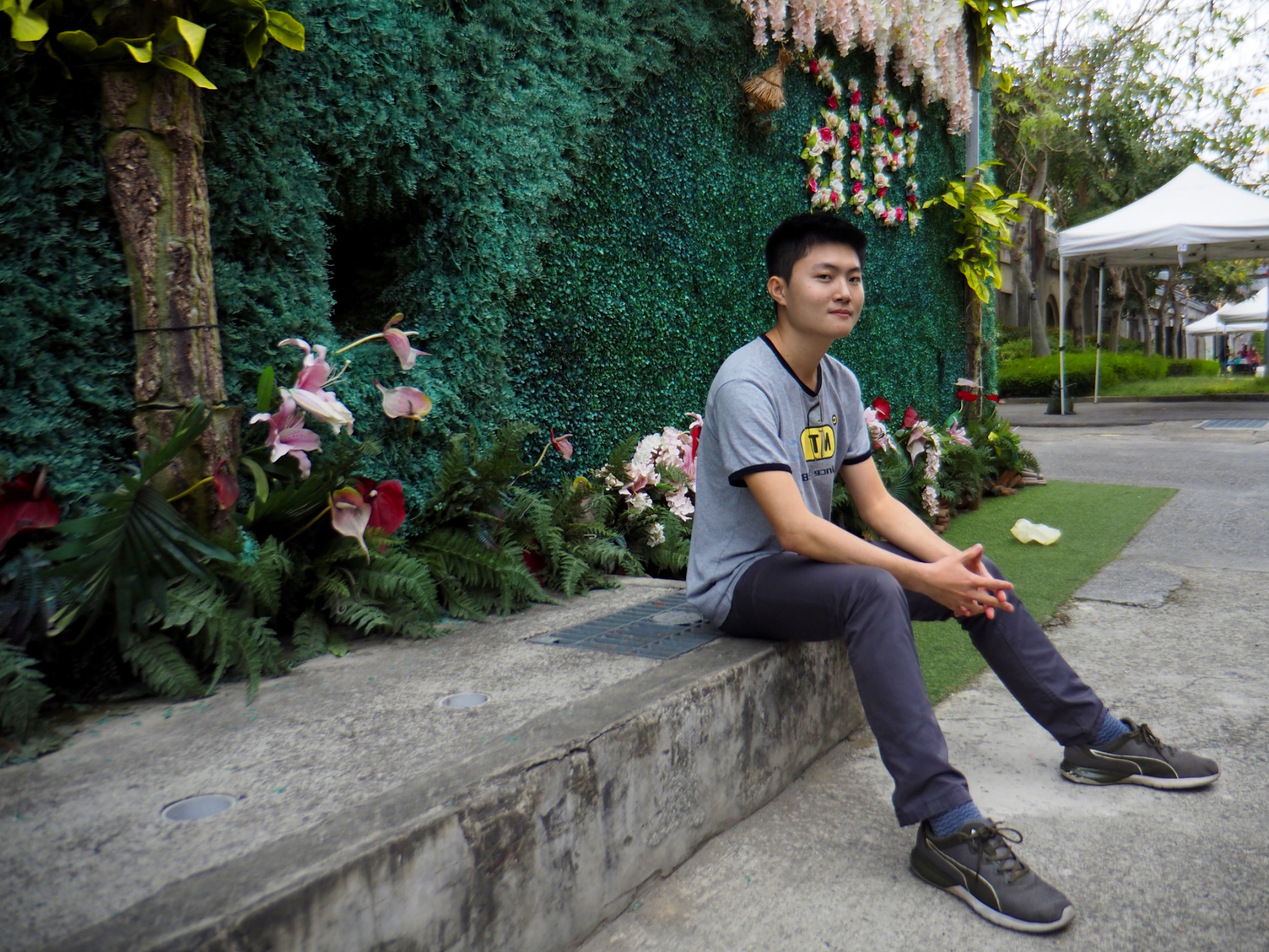
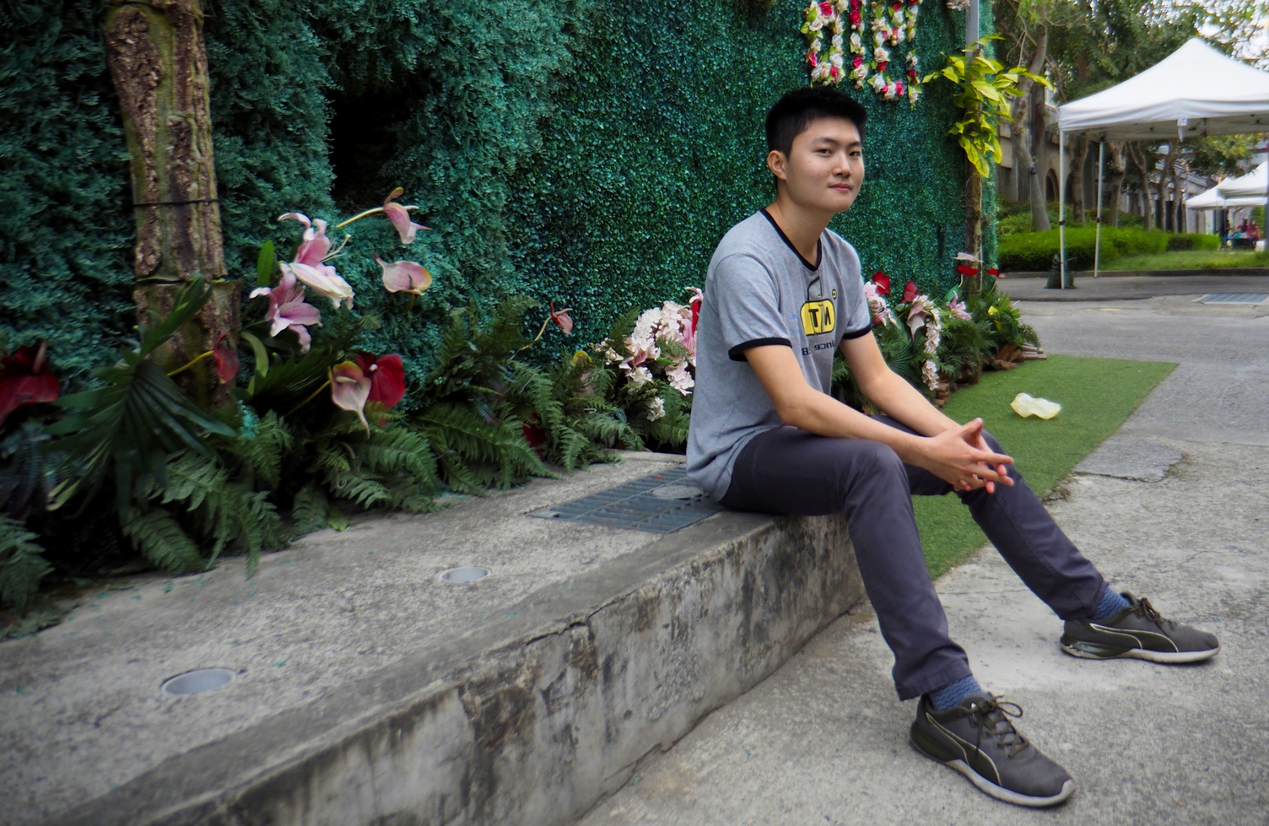
adjust the background image of HomePage

diff --git a/Yun's website.html b/Yun's website.html
@@ -7,6 +7,7 @@
 	<title>This is Yun's first website</title>
 
 	<style type="text/css">
+		body {margin: 0;}
 		a:link{	color: black; }
 		nav {
 			height: 8vh;
@@ -27,7 +28,7 @@
 
 
 		section{
-			height: 180vh;
+			height: 92vh;
 			background-image: url(background.jpg);
 			background-size: 105%;
 			background-repeat: no-repeat;
